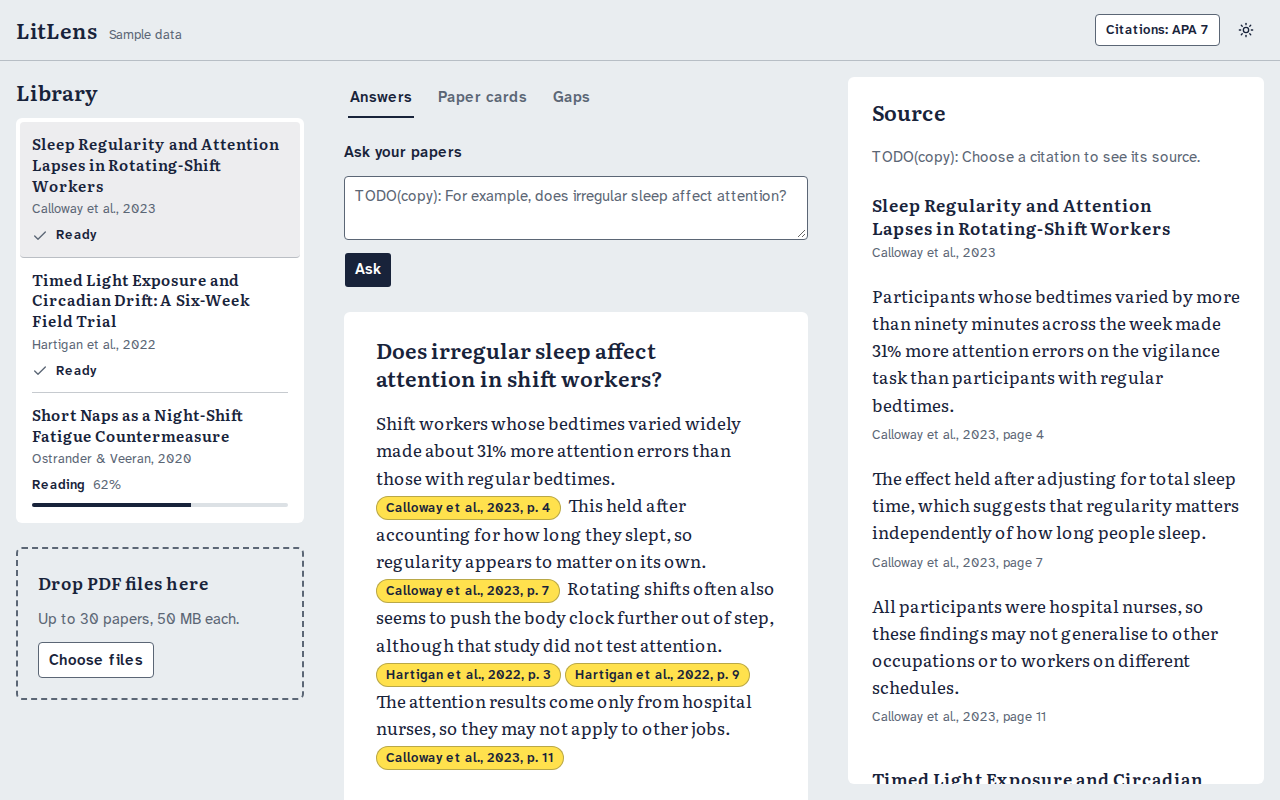
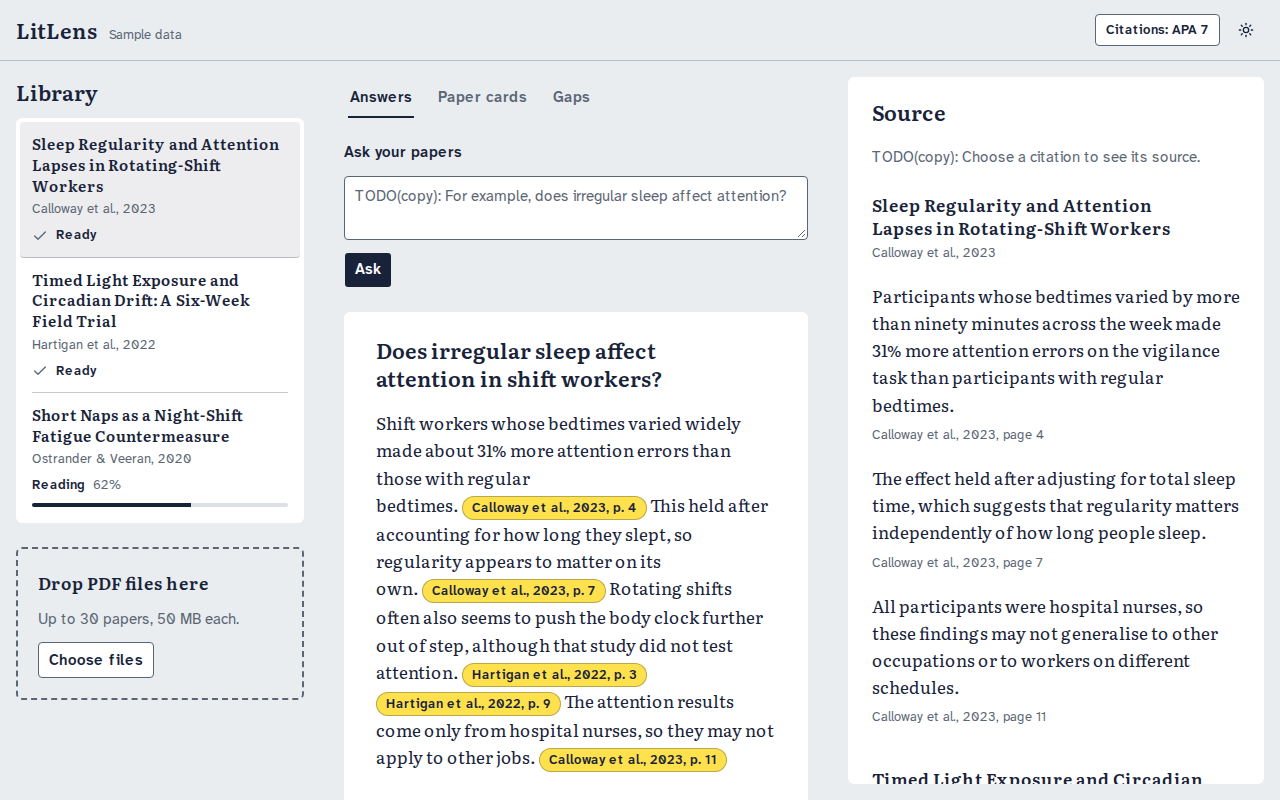
docs: refresh screenshots, add mid-loop frames of the home demo loop

Changed region(s): [[0.2812, 0.6875, 0.5938, 0.9688], [0.2812, 0.5938, 0.5938, 0.6562]]

diff --git a/apps/web/e2e/screenshots-loop.spec.ts b/apps/web/e2e/screenshots-loop.spec.ts
@@ -1,0 +1,25 @@
+import { test } from "@playwright/test";
+import path from "node:path";
+
+const SHOTS = path.resolve(__dirname, "../../../docs/screenshots");
+
+// One frame from the middle of the home demo loop, per theme and width. The loop starts about
+// 1.7 s after load; about 8.6 s after load the second sentence and its chip are arriving.
+// (The end-state frames are the ordinary home screenshots, taken with reduced motion.)
+for (const theme of ["light", "dark"] as const) {
+  for (const width of [1280, 390]) {
+    test(`home mid-loop ${theme} ${width}px`, async ({ browser }) => {
+      test.setTimeout(30_000);
+      const context = await browser.newContext({
+        viewport: { width, height: 900 },
+        colorScheme: theme,
+      });
+      const page = await context.newPage();
+      await page.goto("/");
+      await page.evaluate(() => document.fonts.ready);
+      await page.waitForTimeout(8600);
+      await page.screenshot({ path: path.join(SHOTS, `home-loop-mid-${theme}-${width}.png`) });
+      await context.close();
+    });
+  }
+}
